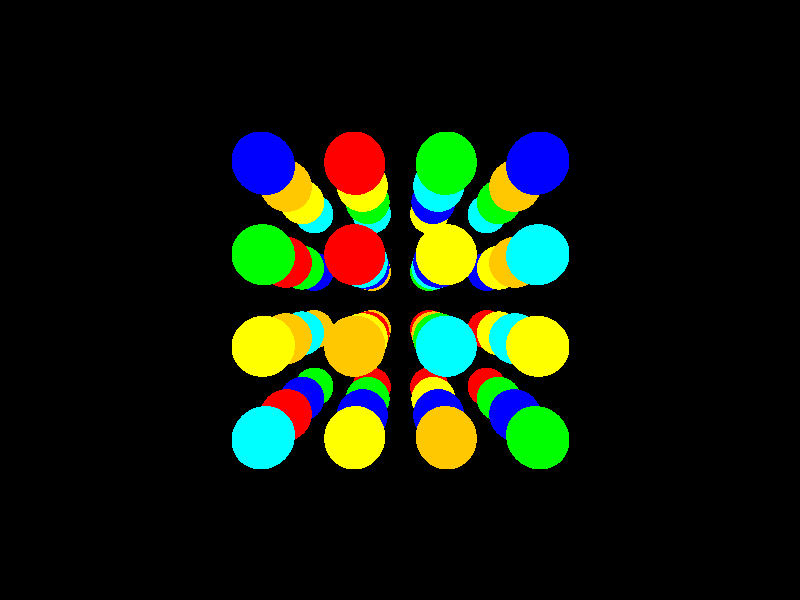
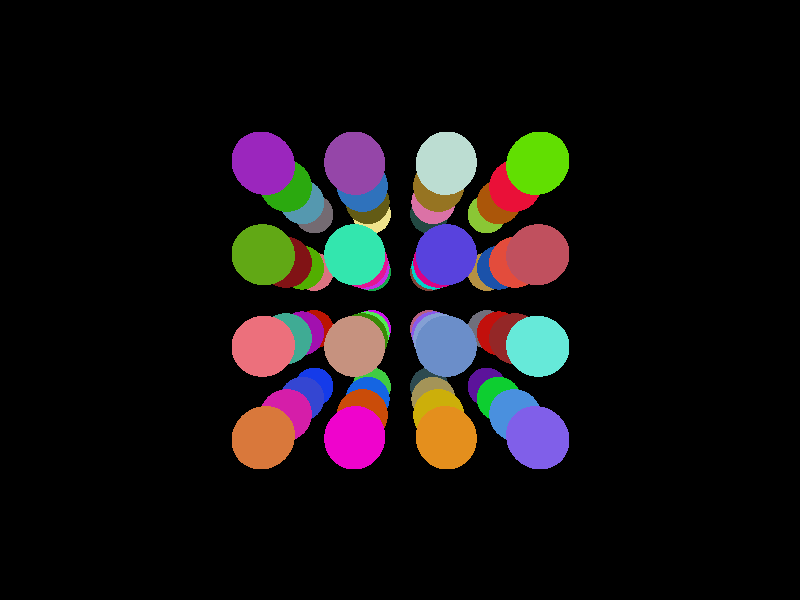
Cambios definitivos en la escena Agregue los comandos perdidos a lo largo de las revisiones de la linea de comandos!? Saque un par de TODOs Quedan lo de Liear y Log...

Changed region(s): [[0.2812, 0.21, 0.7188, 0.78]]

diff --git a/cg_tpe1/src/main/java/ar/edu/itba/cg/tpe1/App.java b/cg_tpe1/src/main/java/ar/edu/itba/cg/tpe1/App.java
@@ -7,6 +7,8 @@ import java.io.IOException;
 import java.util.ArrayList;
 import java.util.Calendar;
 import java.util.List;
+import java.util.regex.Matcher;
+import java.util.regex.Pattern;
 
 import javax.imageio.ImageIO;
 import javax.vecmath.Point3d;
@@ -29,11 +31,11 @@ public class App
     public static void main( String[] args )
     {
     	List<Color> colors = new ArrayList<Color>();
-    	colors.add(Color.CYAN);
+    	colors.add(new Color(143, 0, 255));
     	colors.add(Color.BLUE);
     	colors.add(Color.GREEN);
     	colors.add(Color.YELLOW);
-    	colors.add(Color.ORANGE);
+    	colors.add(new Color(255, 140, 0));
     	colors.add(Color.RED);
 
 		int i = 0;
@@ -47,10 +49,11 @@ public class App
     	String format = "PNG";
     	BufferedImage image;
     	File output = null;
-    	int width = 800;
-    	int height = 600;
+    	int width = 640;
+    	int height = 480;
     	long start = 0;
     	long stop = 0;
+    	int fov = 60;
     	
         //Parameters parsing
         while (!failed && i < args.length && args[i].startsWith("-")) {
@@ -85,27 +88,39 @@ public class App
                     System.out.println(arg + " requires a scene name");
                     failed = true;
                 }
-            } else if (arg.equals("-r")) {
-            	// Resolution
-            	if ((i+1) < args.length) {
+            } else if (arg.equals("-size")) {
+                // Resolution
+                if (i < args.length) {
+                    arg = args[i++];
+                    // WidthxHeight
+                    Pattern dimensionsPattern = Pattern.compile("(\\d+)x(\\d+)");
+                    Matcher m = dimensionsPattern.matcher(arg);
+                    if ( ! m.find() ) {
+                        System.out.println("'" + arg + "' is an invalid image width");
+                        failed = true;
+                    } else {
+                        width = Integer.parseInt(m.group(1));
+                        height = Integer.parseInt(m.group(2));
+                    }
+                } else {
+	                System.out.println(arg + " requires width and height");
+	                failed = true;
+                }
+            } else if (arg.equals("-fov")) {
+            	// Aperture size
+            	if (i < args.length) {
             		arg = args[i++];
-            		// Width
-            		if (arg.matches("[0-9]+") == false) {
-            			System.out.println("'" + arg + "' is an invalid image width");
+            		// Angle
+            		Pattern anglePattern = Pattern.compile("(\\d+)");
+            		Matcher m = anglePattern.matcher(arg);
+            		if ( ! m.find() ) {
+            			System.out.println("'" + arg + "' is an invalid aperture angle");
             			failed = true;
             		} else {
-            			width = (new Integer(arg)).intValue();
-            		}
-            		arg = args[i++];
-            		// Height
-            		if (arg.matches("[0-9]+") == false) {
-            			System.out.println("'" + arg + "' is an invalid image height");
-            			failed = true;
-            		} else {
-            			height = (new Integer(arg)).intValue();
+            			fov = Integer.parseInt(m.group(1));
             		}
             	} else {
-            		System.out.println(arg + " requires width and heigh");
+            		System.out.println(arg + " requires an aperture angle");
             		failed = true;
             	}
             } else if (arg.equals("-cm")) {
@@ -163,7 +178,6 @@ public class App
     	try {
     		output = new File(fileName);
 		} catch (NullPointerException e) {
-			// TODO Auto-generated catch block
 			e.printStackTrace();
 		}
 		
@@ -174,14 +188,14 @@ public class App
     	Scene scene = new Scene(sceneName);
     	
     	// Create a camera
-    	Camera camera = new Camera(new Point3d(0d, 0d, 10d), new Point3d(0d, 0d ,0d), new Point3d(0d, 10d ,10d), 65, width, height);
+    	Camera camera = new Camera(new Point3d(0d, 0d, 10d), new Point3d(0d, 0d ,0d), new Point3d(0d, 10d ,10d), fov, width, height);
     	
     	// Create rayCaster
     	RayCaster raycaster = null;
     	
     	// Set colors for primitives
     	if ( colorProvider instanceof CyclicColorProvider) {
-    		raycaster = new RayCaster(scene, camera, 4, colorProvider, colorVar);
+    		raycaster = new RayCaster(scene, camera, 1, colorProvider, colorVar);
     	} else {
     		raycaster = new RayCaster(scene, camera, 4, colorProvider, colorVar);
     	}
@@ -203,7 +217,6 @@ public class App
     	try {
 			ImageIO.write(image, format, output);
 		} catch (IOException e) {
-			// TODO Auto-generated catch block
 			e.printStackTrace();
 		}
 
@@ -218,7 +231,7 @@ public class App
     }
     
 	public static void showUsage() {
-		System.out.println("Usage: App -i sceneX.sc [-o output] [-time] [-cm [random|ordered]] [-cm [linear|log]] [-r width height] [-usage]");
+		System.out.println("Usage: App -i sceneX.sc [-o output] [-time] [-cm [random|ordered]] [-cm [linear|log]] [-size widthxheight] [-fov angle] [-usage]");
 		return;
 	}
 }

diff --git a/cg_tpe1/src/main/java/ar/edu/itba/cg/tpe1/rayCaster/Scene.java b/cg_tpe1/src/main/java/ar/edu/itba/cg/tpe1/rayCaster/Scene.java
@@ -82,17 +82,17 @@ public class Scene {
 			double a = Math.sqrt(Math.pow(2.5d, 2) + Math.pow(2.5d, 2));
 			
 			// Pyramid of side 5
-			list.add(new Triangle(new Point3d(-a, 0, 0),  new Point3d( 0, a, 0), new Point3d( 0, 0, a),  Color.RED));
-			list.add(new Triangle(new Point3d( 0, 0, a),  new Point3d( 0, a, 0), new Point3d( a, 0, 0),  Color.BLUE));
-			list.add(new Triangle(new Point3d(-a, 0, 0),  new Point3d( 0, a, 0), new Point3d( 0, 0,-a),  Color.YELLOW));
-			list.add(new Triangle(new Point3d( 0, 0,-a),  new Point3d( 0, a, 0), new Point3d( a, 0, 0),  Color.GREEN));
+			list.add(new Triangle(new Point3d(-a, 0, 0),  new Point3d( 0, 5, 0), new Point3d( 0, 0, a),  Color.RED));
+			list.add(new Triangle(new Point3d( 0, 0, a),  new Point3d( 0, 5, 0), new Point3d( a, 0, 0),  Color.BLUE));
+			list.add(new Triangle(new Point3d(-a+0.01, 0, 0),  new Point3d( 0, 5, 0), new Point3d( 0, 0,-a),  Color.YELLOW));
+			list.add(new Triangle(new Point3d( 0, 0,-a),  new Point3d( 0, 5, 0), new Point3d( a-0.01, 0, 0),  Color.GREEN));
 			// Sphere of radius 1 at the top of the pyramid
-			list.add(new Sphere(new Point3d( 0, a + 1, 0), 1,  Color.ORANGE));
+			list.add(new Sphere(new Point3d( 0, 6, 0), 1,  Color.ORANGE));
 			// Spheres of radius 0.5 at pyramid vertexes
-			list.add(new Sphere(new Point3d( a + 3, 0, 0), 0.5f,  Color.CYAN));
-			list.add(new Sphere(new Point3d(-(a + 3), 0, 0), 0.5f,  Color.GRAY));
-			list.add(new Sphere(new Point3d( 0, 0, a + 3), 0.5f,  Color.MAGENTA));
-			list.add(new Sphere(new Point3d( 0, 0,-(a + 3)), 0.5f,  Color.PINK));
+			list.add(new Sphere(new Point3d( a + 3.5, 0, 0), 0.5f,  Color.CYAN));
+			list.add(new Sphere(new Point3d(-(a + 3.5), 0, 0), 0.5f,  Color.GRAY));
+			list.add(new Sphere(new Point3d( 0, 0, a + 3.5), 0.5f,  Color.MAGENTA));
+			list.add(new Sphere(new Point3d( 0, 0,-(a + 3.5)), 0.5f,  Color.PINK));
 		} else if (scene.equals("scene2.sc")) {
 			// 64 spheres of radius 1 in a 4 x 4 x 4 cube distribution with a separation of 0.5
 			//list.add ( new Sphere(new Point3d( 0, 0, 0), 0.5,  Color.CYAN ));
@@ -108,28 +108,34 @@ public class Scene {
 				}
 			}
 		} else if (scene.equals("scene3.sc")) {
-			// 3 cubes of side 2 and 2 spheres of radius 1 distributed and aligned to X axis
-			for (double x = -4d; x <= 4; x += 4) {
+			// 3 cubes of side 2 and 2 spheres of radius 1 distributed and aligned to X axis over the y=0 surface.
+			// Ambiguous scene:
+			/*Escena 3 (scene3.sc): deberá contener de forma intercalada 3 cubos de lado 2 y
+			dos esferas de radio 1 alineados de manera centrada sobre el eje x. Las bases de
+			los cubos y las esferas deben estar “apoyadas” sobre el plano y = 0. La separación
+			entre las figuras, esto es, el “hueco de aire” entre ellas es de 0.5. La escena debe
+			estar centrada a lo largo del eje x. Los centros de las figuras deben coincidir con el
+			plano z = 0.
+			*/
+			for (double x = -5d; x <= 5; x += 5) {
 				for (Primitive p : createCube(new Point3d(x,1,0), 2, Color.BLUE)) {
 					list.add(p);
 				}
 			}
 			// 2 spheres of radius 1 between the cubes
-			list.add(new Sphere(new Point3d( -2, 1, 0), 1f,  Color.MAGENTA));
-			list.add(new Sphere(new Point3d(  2, 1, 0), 1f,  Color.MAGENTA));
+			list.add(new Sphere(new Point3d( -2.5, 1, 0), 1f,  Color.MAGENTA));
+			list.add(new Sphere(new Point3d(  2.5, 1, 0), 1f,  Color.MAGENTA));
 		} else if (scene.equals("scene4.sc")) {
 			// 3 cubes of side 2 and 2 spheres of radius 1 distributed and aligned to X axis
-			for (double x = -4d; x <= 4; x += 4) {
+			for (double x = -5d; x <= 5; x += 5) {
 				for (Primitive p : createCubeT(new Point3d(x,0,0), 2, Color.DARK_GRAY)) {
 					list.add(p);
 				}
 			}
 			// 2 spheres of radius 1 between the cubes
-			list.add(new Sphere(new Point3d( -2, 0, 0), 1f,  Color.MAGENTA));
-			list.add(new Sphere(new Point3d(  2, 0, 0), 1f,  Color.MAGENTA));
+			list.add(new Sphere(new Point3d( -2.5, 0, 0), 1f,  Color.MAGENTA));
+			list.add(new Sphere(new Point3d(  2.5, 0, 0), 1f,  Color.MAGENTA));
 		} else if (scene.equals("scene5.sc")) {
-			// 64 spheres of radius 1 in a 4 x 4 x 4 cube distribution with a separation of 0.5
-			//list.add ( new Sphere(new Point3d( 0, 0, 0), 0.5,  Color.CYAN ));
 			double spheres=11.0;
 			double distance=0.5;
 			double radius=0.5;

diff --git a/cg_tpe1/src/main/java/ar/edu/itba/cg/tpe1/rayCaster/RayCasterThread.java b/cg_tpe1/src/main/java/ar/edu/itba/cg/tpe1/rayCaster/RayCasterThread.java
@@ -212,8 +212,13 @@ class RayCasterThread extends Thread {
         //float[] hsb = new float[3];
     	Color ret=null;
         //TODO: ver como queda con los 3 canales
-
-    	if (distance >= farthestDistance) {
+		
+/*    	distance /= 10;
+		
+		if (distance < 1)
+			distance = 1;
+*/
+		if (distance >= farthestDistance) {
     		ret = new Color(0,0,0);    		
     	} else if (colorVariation==RayCaster.COLOR_VARIATION_LINEAR) {
 			ret= new Color((int)(-color.getRed()/farthestDistance + color.getRed()),

diff --git a/cg_tpe1/src/main/java/ar/edu/itba/cg/tpe1/geometry/Quadrilateral.java b/cg_tpe1/src/main/java/ar/edu/itba/cg/tpe1/geometry/Quadrilateral.java
@@ -65,12 +65,10 @@ public class Quadrilateral implements Primitive {
 	}
 		
 	public Color getColor(Point3d point) {
-		// TODO Auto-generated method stub
 		return this.aColor;
 	}
 	
 	public void setColor(Color color) {
-		// TODO Auto-generated method stub
 		this.aColor = color;
 		
 	}
